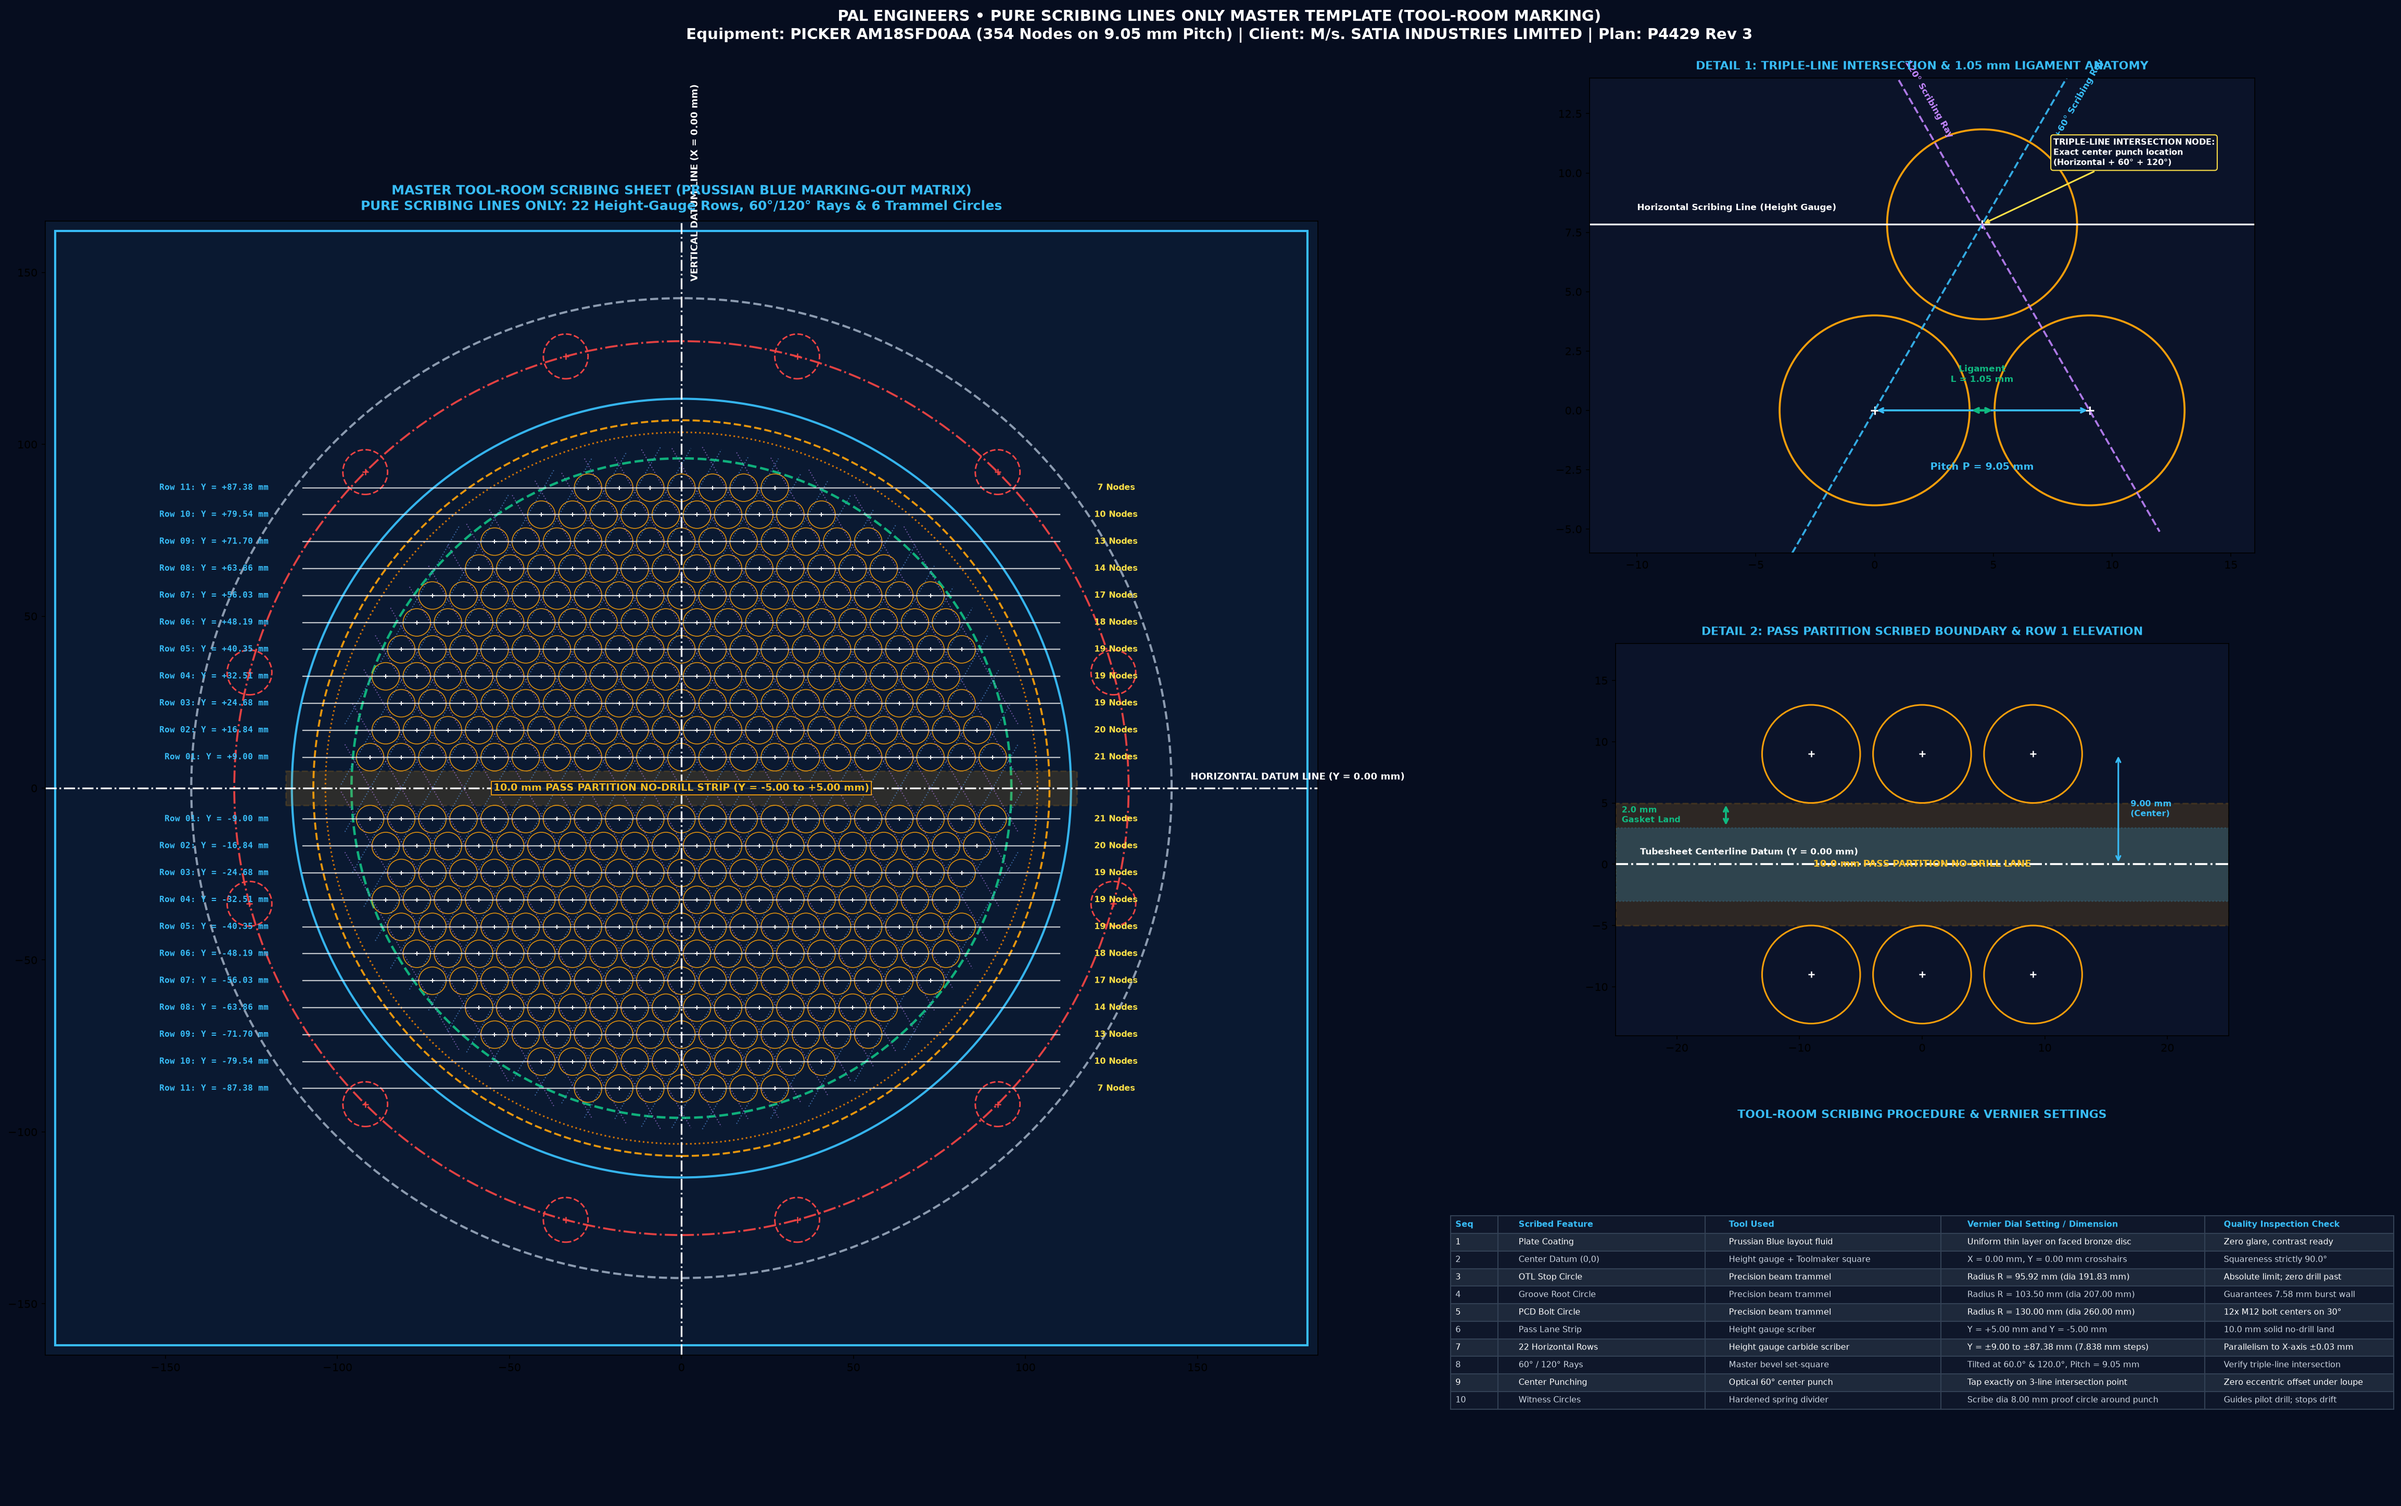
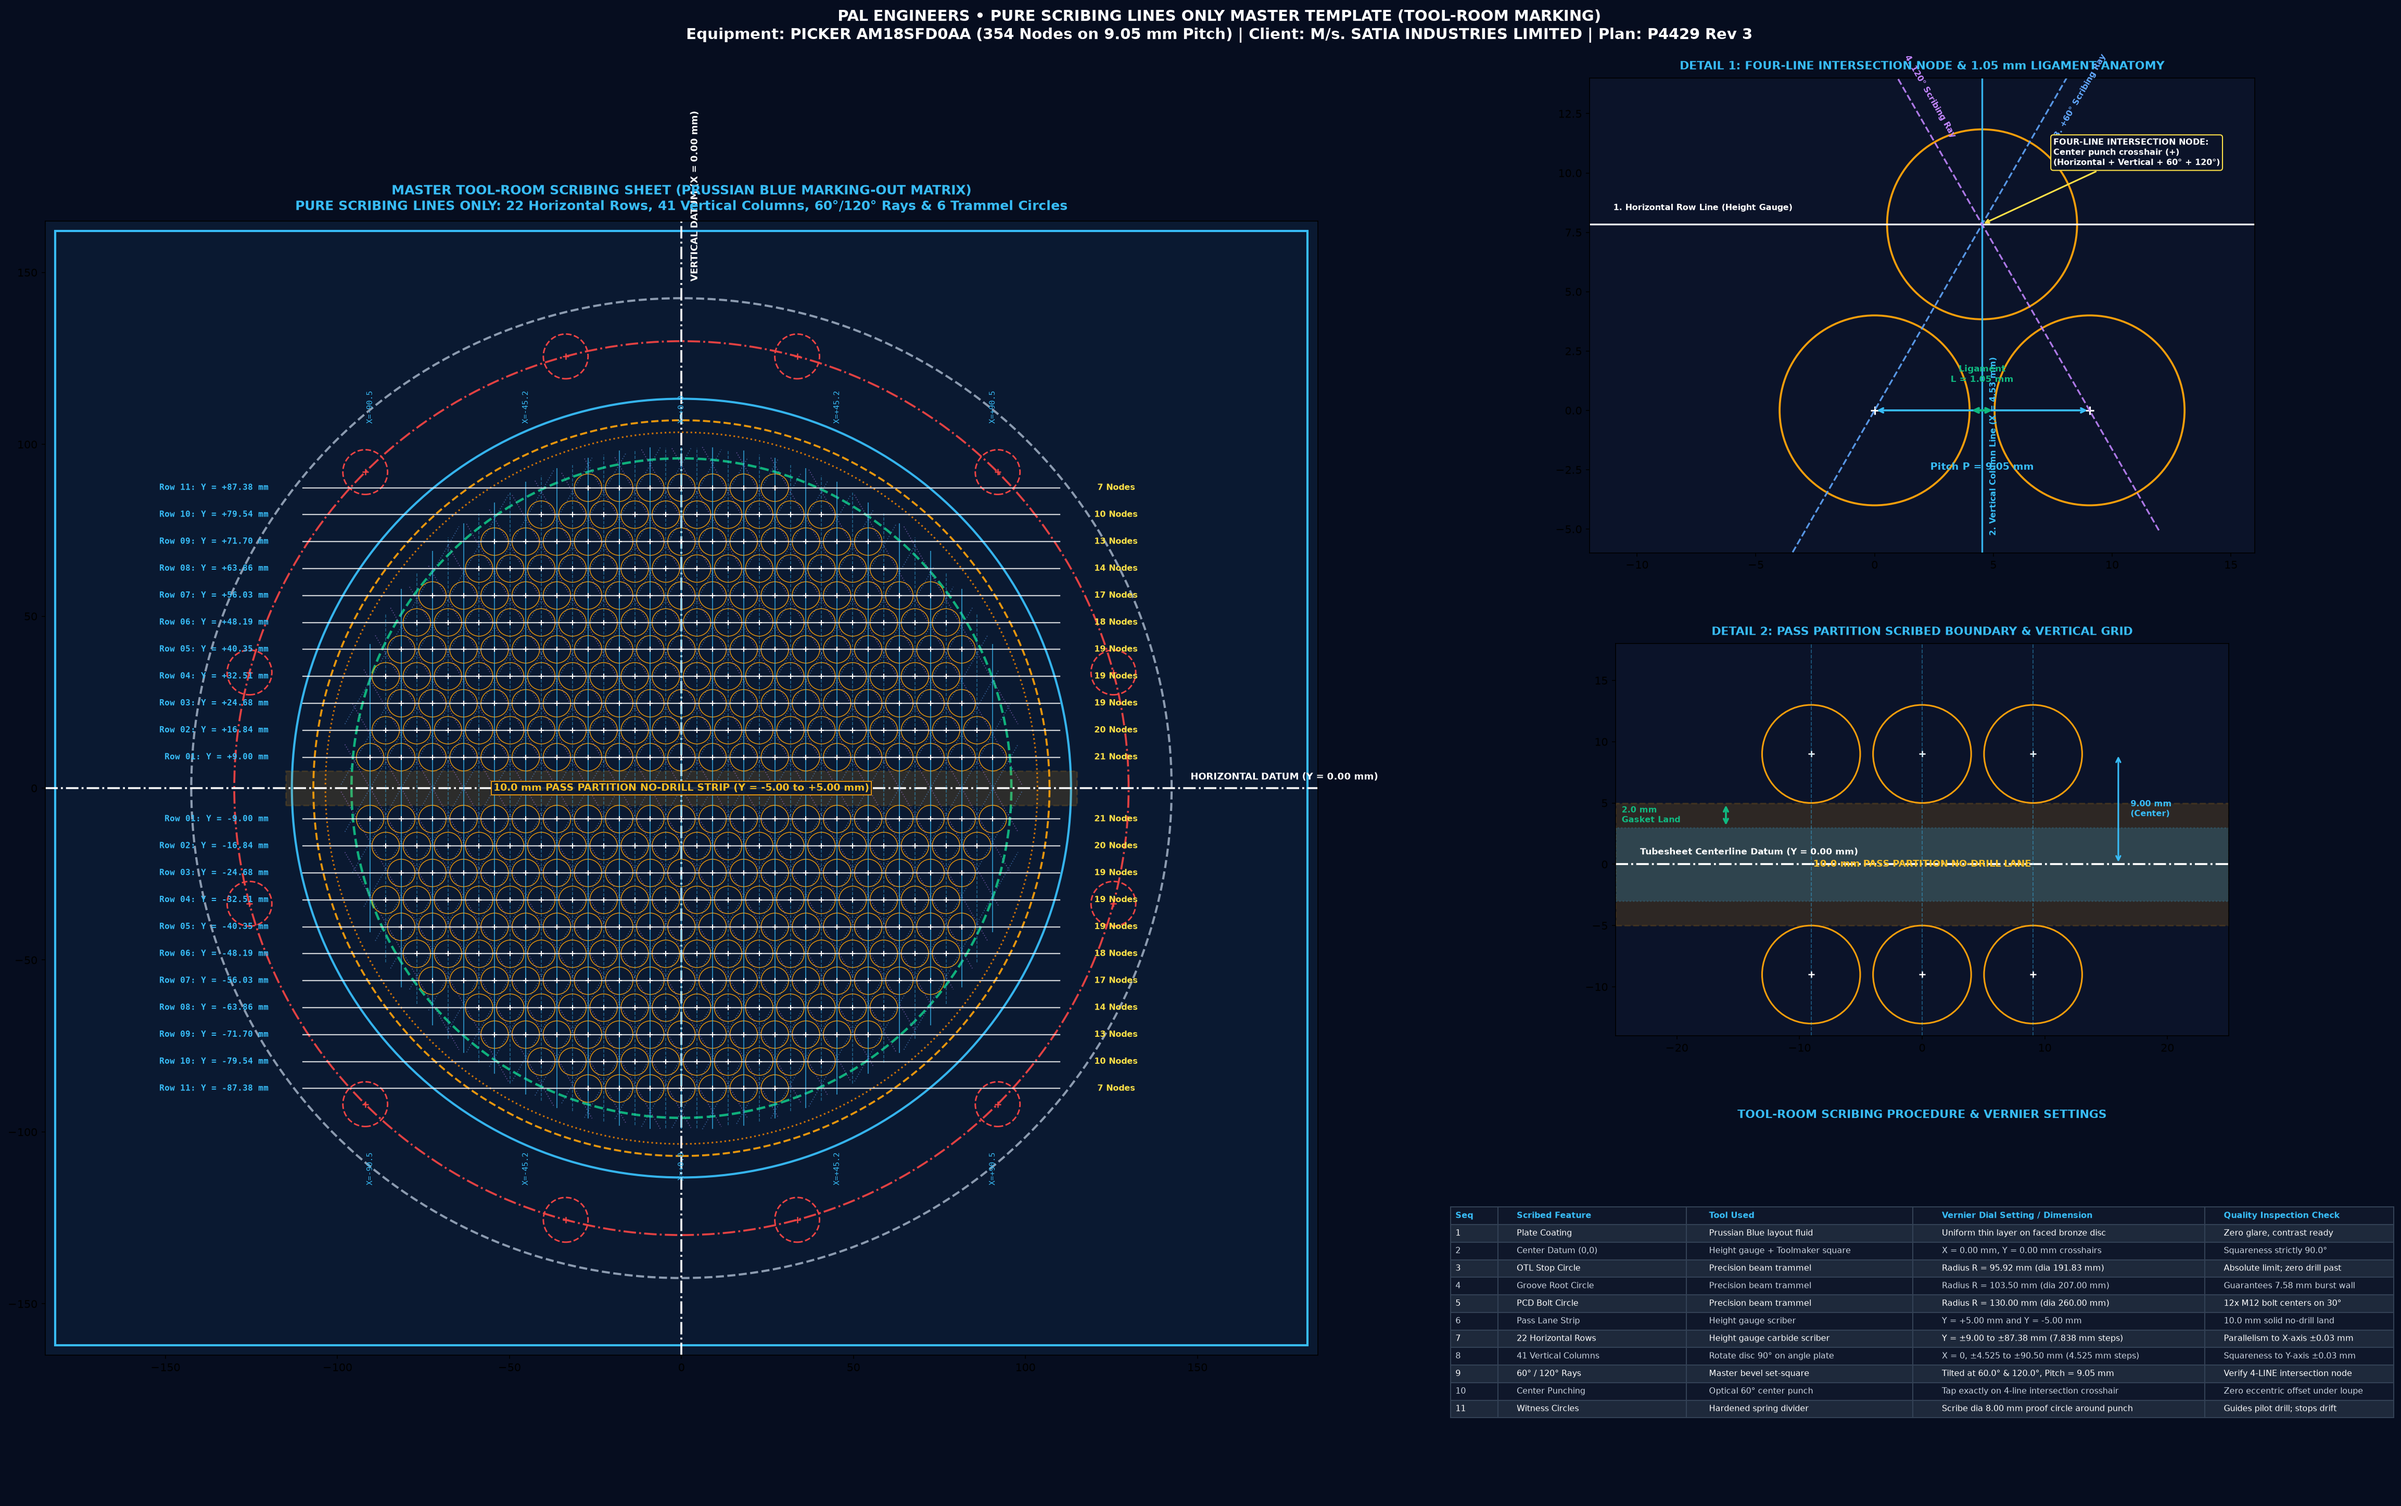
Update Pure Scribing Sheet with 41 Vertical Lines and 4-way intersection

diff --git a/Pure_Scribing_Lines_Master_Plate.html b/Pure_Scribing_Lines_Master_Plate.html
@@ -216,34 +216,40 @@
   <!-- EXPLANATION DETAILS CARDS -->
   <div class="details-grid">
 
-    <!-- CARD 1: THE 3 FAMILIES OF SCRIBED LINES -->
+    <!-- CARD 1: THE 4 FAMILIES OF SCRIBED LINES -->
     <div class="card">
       <div class="card-head">
-        <span>1. THE 3 FAMILIES OF SCRIBED LINES</span>
-        <span style="font-size: 11px; color: var(--gold); font-family: monospace;">TRIANGULATION MATRIX</span>
+        <span>1. THE 4 FAMILIES OF SCRIBED LINES</span>
+        <span style="font-size: 11px; color: var(--gold); font-family: monospace;">4-WAY INTERSECTION MATRIX</span>
       </div>
       <p style="font-size: 12.5px; color: var(--slate); margin-bottom: 12px;">
-        To achieve mathematically perfect 60° equilateral triangular pitch without cumulative layout error, three independent sets of straight lines are scribed across the Prussian Blue dye:
+        To achieve mathematically perfect 60° equilateral triangular pitch with zero cumulative layout error, four independent sets of straight lines are scribed across the Prussian Blue dye:
       </p>
       <table class="spec-table">
         <thead>
-          <tr><th>Line Family</th><th>Orientation</th><th>Tool Used</th><th>Spacing</th></tr>
+          <tr><th>Line Family</th><th>Orientation</th><th>Tool Used</th><th>Spacing & Count</th></tr>
         </thead>
         <tbody>
           <tr>
             <td class="param-name" style="color:#ffffff;">Family 1: Rows</td>
             <td class="param-val" style="color:#ffffff;">Horizontal (0°)</td>
-            <td>Vernier Height Gauge</td>
-            <td>ΔY = 7.838 mm steps</td>
+            <td>Height Gauge</td>
+            <td>22 Lines &bull; ΔY = 7.838 mm steps</td>
           </tr>
           <tr>
-            <td class="param-name" style="color:#38bdf8;">Family 2: Rays</td>
-            <td class="param-val" style="color:#38bdf8;">+60.0° Angle</td>
+            <td class="param-name" style="color:#38bdf8;">Family 2: Columns</td>
+            <td class="param-val" style="color:#38bdf8;">Vertical (90°)</td>
+            <td>Rotate 90° on Angle Plate</td>
+            <td>41 Lines &bull; ΔX = 4.525 mm steps</td>
+          </tr>
+          <tr>
+            <td class="param-name" style="color:#60a5fa;">Family 3: Rays</td>
+            <td class="param-val" style="color:#60a5fa;">+60.0° Angle</td>
             <td>Master Bevel Protractor</td>
             <td>ΔX = 9.05 mm horizontal pitch</td>
           </tr>
           <tr>
-            <td class="param-name" style="color:#c084fc;">Family 3: Rays</td>
+            <td class="param-name" style="color:#c084fc;">Family 4: Rays</td>
             <td class="param-val" style="color:#c084fc;">120.0° (-60°)</td>
             <td>Opposing Set-Square</td>
             <td>ΔX = 9.05 mm horizontal pitch</td>
@@ -251,7 +257,7 @@
         </tbody>
       </table>
       <div style="margin-top: 12px; padding: 10px; background: rgba(56, 189, 248, 0.1); border-left: 3px solid var(--accent); border-radius: 4px; font-size: 11.5px;">
-        <strong>The Rule of Three:</strong> Every hole center is created by the exact intersection of 1 Horizontal line + 1 (+60°) line + 1 (120°) line. If all 3 lines do not meet at a single microscopic point, the machinist immediately knows a pitch error occurred before any center punch is struck.
+        <strong>The Rule of Four:</strong> Every hole center is created by the exact intersection of 1 Horizontal row line + 1 Vertical column line + 1 (+60°) ray + 1 (120°) ray. If all 4 lines do not meet at a single microscopic crosshair (+), the machinist immediately spots the discrepancy before any punch is struck.
       </div>
     </div>
 
